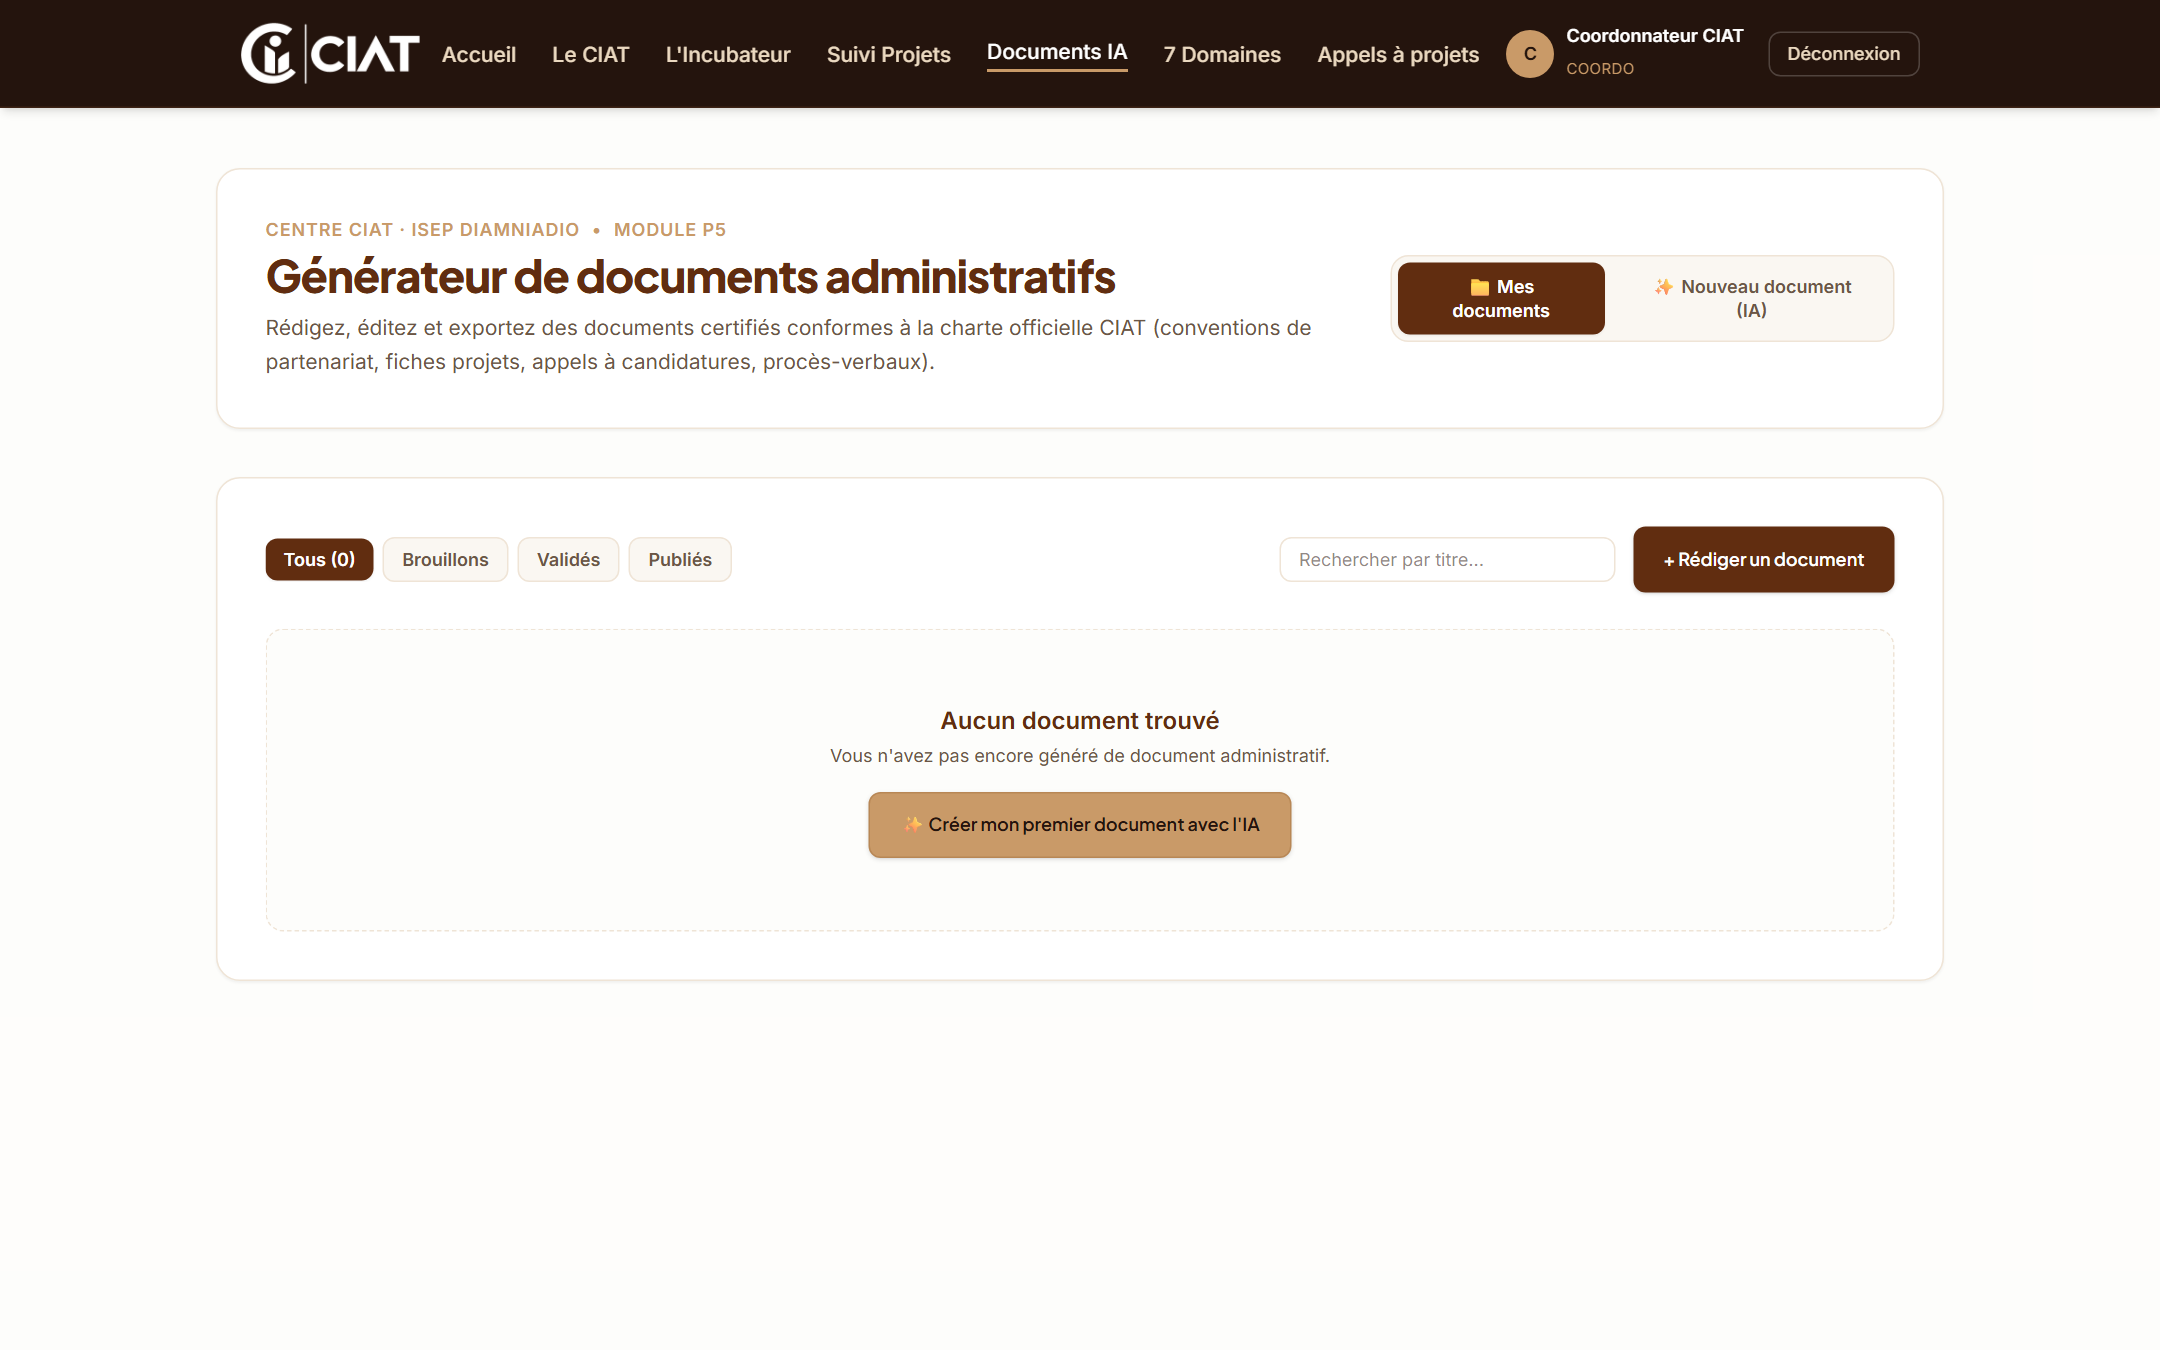
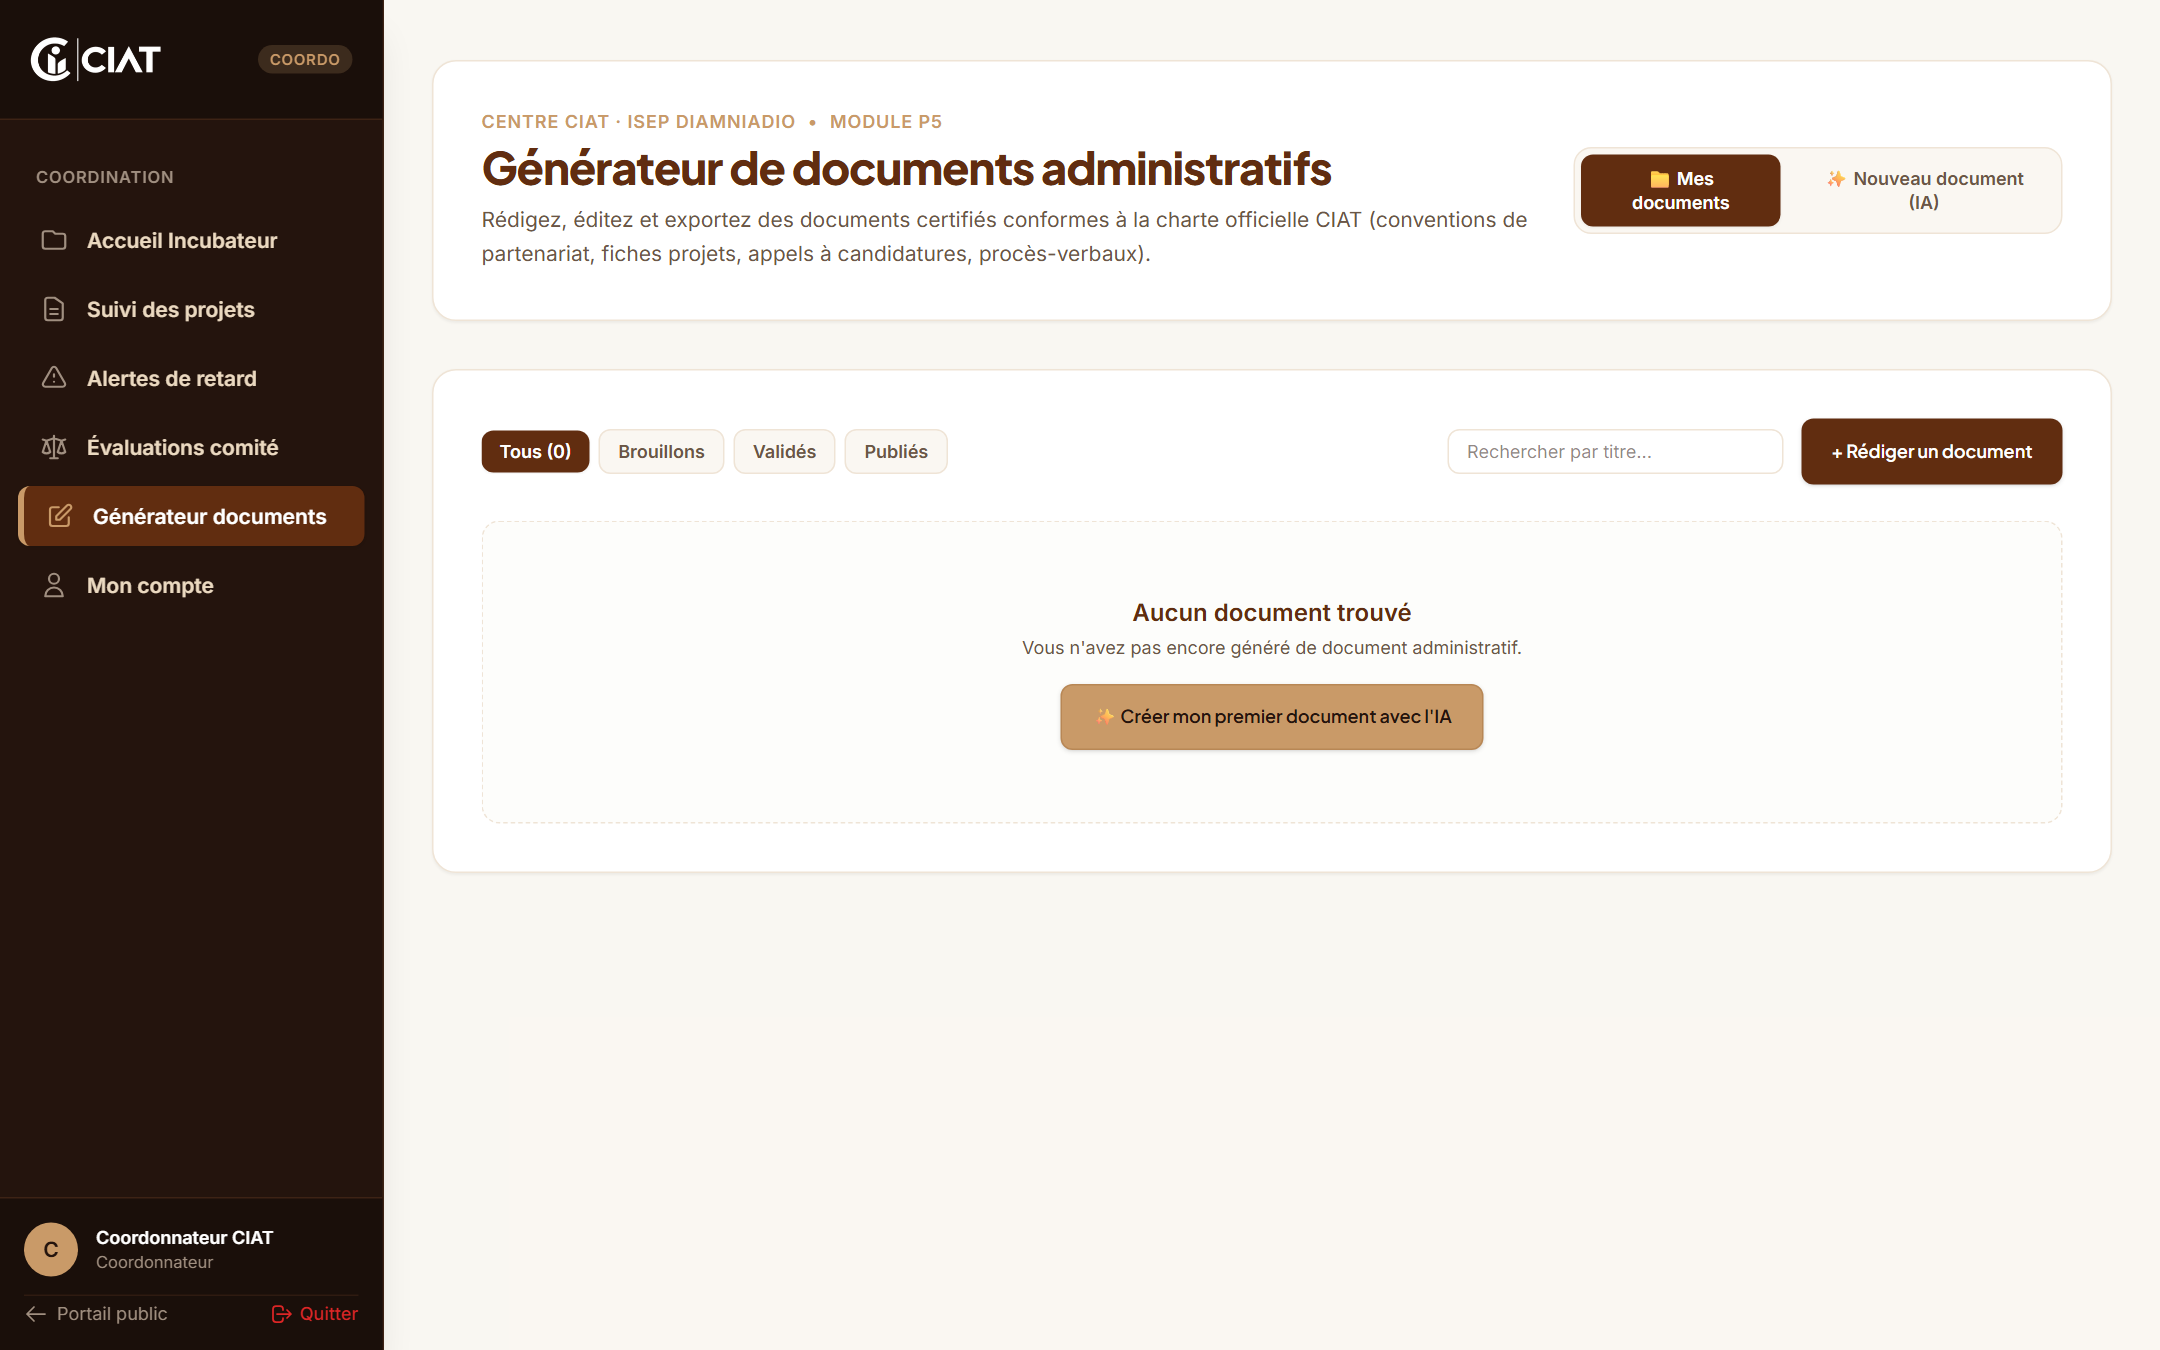
feat(ux): integration de /documents dans la sidebar applicative et retrait pour le porteur

diff --git a/frontend/src/components/Header.tsx b/frontend/src/components/Header.tsx
@@ -31,7 +31,7 @@ export default function Header() {
   const [mobileMenuOpen, setMobileMenuOpen] = useState(false);
 
   const isAuthPage = pathname === "/connexion" || pathname === "/inscription";
-  const isAppPage = pathname.startsWith("/incubateur") || pathname === "/compte";
+  const isAppPage = pathname.startsWith("/incubateur") || pathname.startsWith("/compte") || pathname.startsWith("/documents");
 
   // Masquer totalement l'en-tête public du portail sur les écrans d'authentification et les espaces applicatifs avec Sidebar
   if (isAuthPage || isAppPage) {

diff --git a/frontend/src/components/Footer.tsx b/frontend/src/components/Footer.tsx
@@ -8,7 +8,7 @@ import { MODULES } from "@/lib/modules";
 export default function Footer() {
   const pathname = usePathname();
   const isAuthPage = pathname === "/connexion" || pathname === "/inscription";
-  const isAppPage = pathname.startsWith("/incubateur") || pathname === "/compte";
+  const isAppPage = pathname.startsWith("/incubateur") || pathname.startsWith("/compte") || pathname.startsWith("/documents");
 
   if (isAuthPage || isAppPage) {
     return null;

diff --git a/frontend/src/components/incubateur/AppSidebarLayout.tsx b/frontend/src/components/incubateur/AppSidebarLayout.tsx
@@ -99,7 +99,6 @@ export function AppSidebarLayout({ children }: { children: ReactNode }) {
     { href: "/incubateur", label: "Dépôt de candidature", exact: true, icon: IconDocument },
     { href: "/incubateur/projets", label: "Suivi de mes projets", icon: IconFolder },
     { href: "/compte", label: "Mon profil & Compte", icon: IconUser },
-    { href: "/documents", label: "Générateur documents", icon: IconFileText },
   ];
 
   const coordoLinks: NavItem[] = [

diff --git a/frontend/src/app/documents/layout.tsx b/frontend/src/app/documents/layout.tsx
@@ -1,0 +1,10 @@
+import { Suspense, type ReactNode } from "react";
+import AppSidebarLayout from "@/components/incubateur/AppSidebarLayout";
+
+export default function DocumentsLayout({ children }: { children: ReactNode }) {
+  return (
+    <Suspense fallback={<div className="min-h-screen bg-[#FAF7F2]" />}>
+      <AppSidebarLayout>{children}</AppSidebarLayout>
+    </Suspense>
+  );
+}
